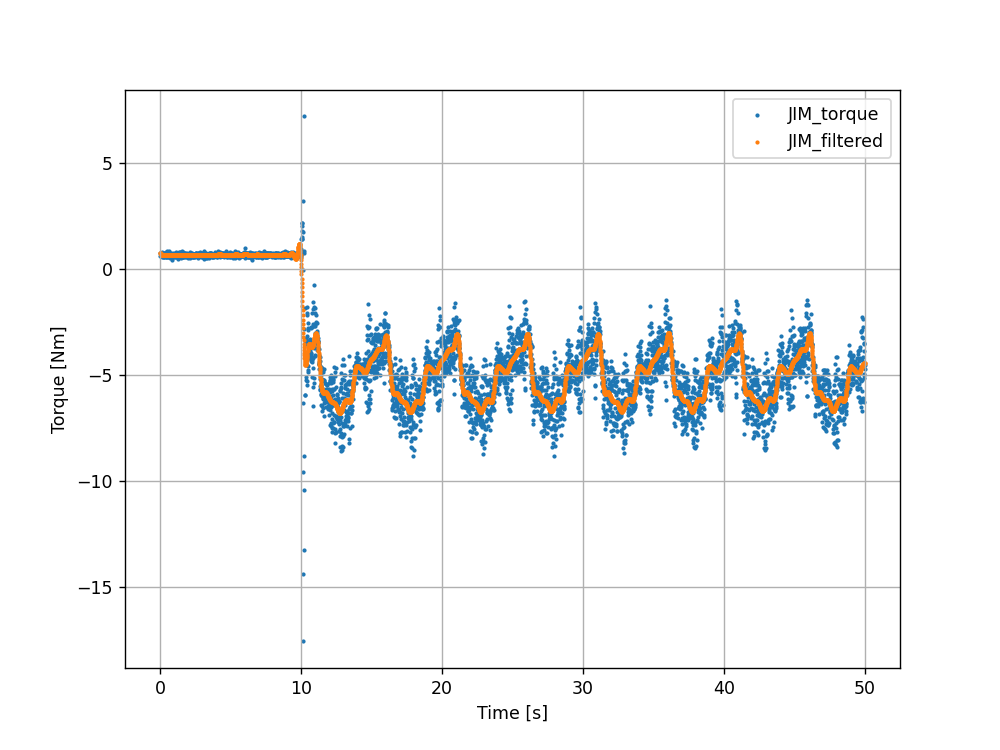
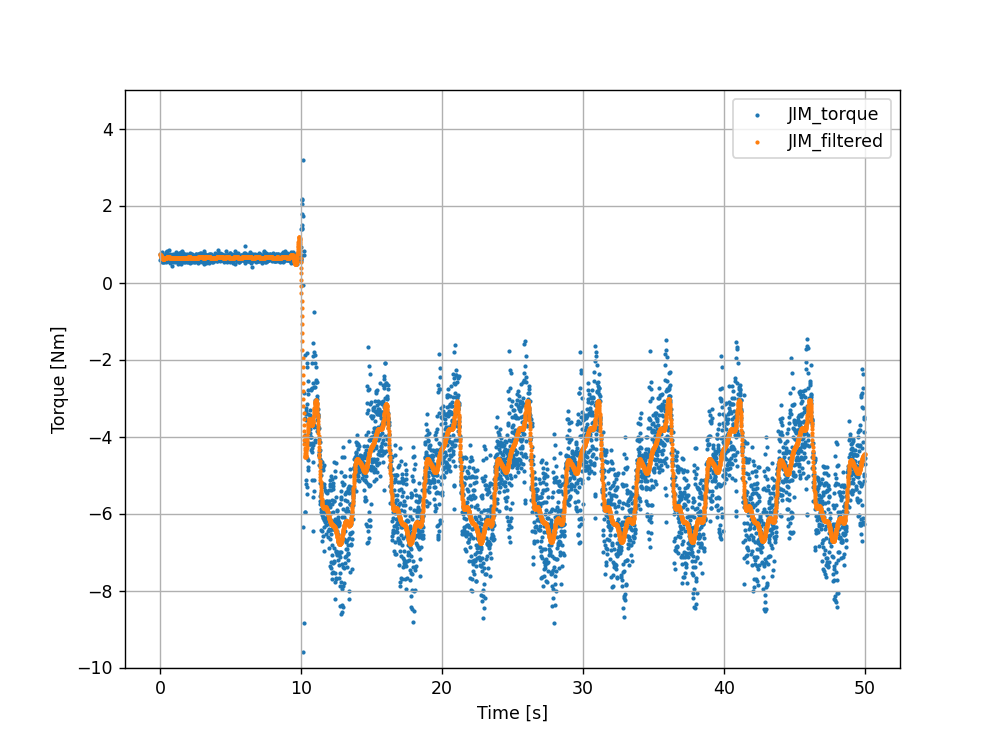
move trig update2

diff --git a/plotter.py b/plotter.py
@@ -157,9 +157,9 @@ def plot_piecewise_fit():
 
 
 def plot_controller_data():
-    csv_file = "/Users/yitengma/Library/CloudStorage/GoogleDrive-yitengma@umich.edu/My Drive/Locomotor/ExoBoot/data_move_trigger/EB51_move_trigger_EXO_1.csv"
+    csv_file = "/Users/yitengma/Library/CloudStorage/GoogleDrive-yitengma@umich.edu/My Drive/Locomotor/ExoBoot/data_move_trigger/EB51_move_trigger_EXO_2.csv"
     cal_file = "/Users/yitengma/Library/CloudStorage/GoogleDrive-yitengma@umich.edu/My Drive/Locomotor/ExoBoot/data_move_trigger/EB51_move_trigger_CAL.mat"
-    mat_file = "/Users/yitengma/Library/CloudStorage/GoogleDrive-yitengma@umich.edu/My Drive/Locomotor/ExoBoot/data_move_trigger/EB51_move_trigger_EXO_1.mat"
+    mat_file = "/Users/yitengma/Library/CloudStorage/GoogleDrive-yitengma@umich.edu/My Drive/Locomotor/ExoBoot/data_move_trigger/EB51_move_trigger_EXO_2.mat"
 
     JIM_time, JIM_angle, JIM_torque =  load_mat(mat_file, cal_file, False, False)
     JIM_time_filt, JIM_angle_filt, JIM_torque_filt =  load_mat(mat_file, cal_file, False, True)
@@ -171,8 +171,6 @@ def plot_controller_data():
     # plt.scatter(controller_data["ankle_angle"], controller_data["commanded_torque"], label='command', s=2)
     # plt.scatter(controller_data["ankle_angle"], controller_data["passive_torque"], label='passive', s=2)
     # plt.scatter(controller_data["ankle_angle"], controller_data["commanded_torque"] + controller_data["passive_torque"], label='output', s=2)
-    # plt.xlabel('Angle [deg]')
-    # plt.ylabel('Torque')
 
     # plt.scatter(JIM_time, JIM_torque, label='JIM_torque', s=2)
     # plt.scatter(JIM_time_filt, JIM_torque_filt, label='JIM_filtered', s=2)
@@ -180,8 +178,13 @@ def plot_controller_data():
     # plt.scatter(controller_data["time"], controller_data["commanded_torque"], label='command', s=2)
     # plt.scatter(controller_data["time"], controller_data["passive_torque"], label='passive', s=2)
     # plt.scatter(controller_data["time"], controller_data["desire_torque"], label='desire', s=2)
+    
+    # plt.ylim(-10, 5)
+    # plt.xlabel('Angle [deg]')
     plt.xlabel('Time [s]')
-    plt.ylabel('Torque [Nm]')
+    # plt.ylabel('Torque [Nm]')
+    plt.ylabel('Angle [deg]')
+
 
     plt.grid(True)
     plt.legend()

diff --git a/EB51_controller_basic.py b/EB51_controller_basic.py
@@ -73,7 +73,7 @@ class Controller():
 
             if not synced:
                 des_torque = 0
-                if abs(current_angle) > 0.5:
+                if abs(current_angle) > 0.1:
                     synced = True
                     print("Synced with JIM device. Start commanding torque.")
             else:
